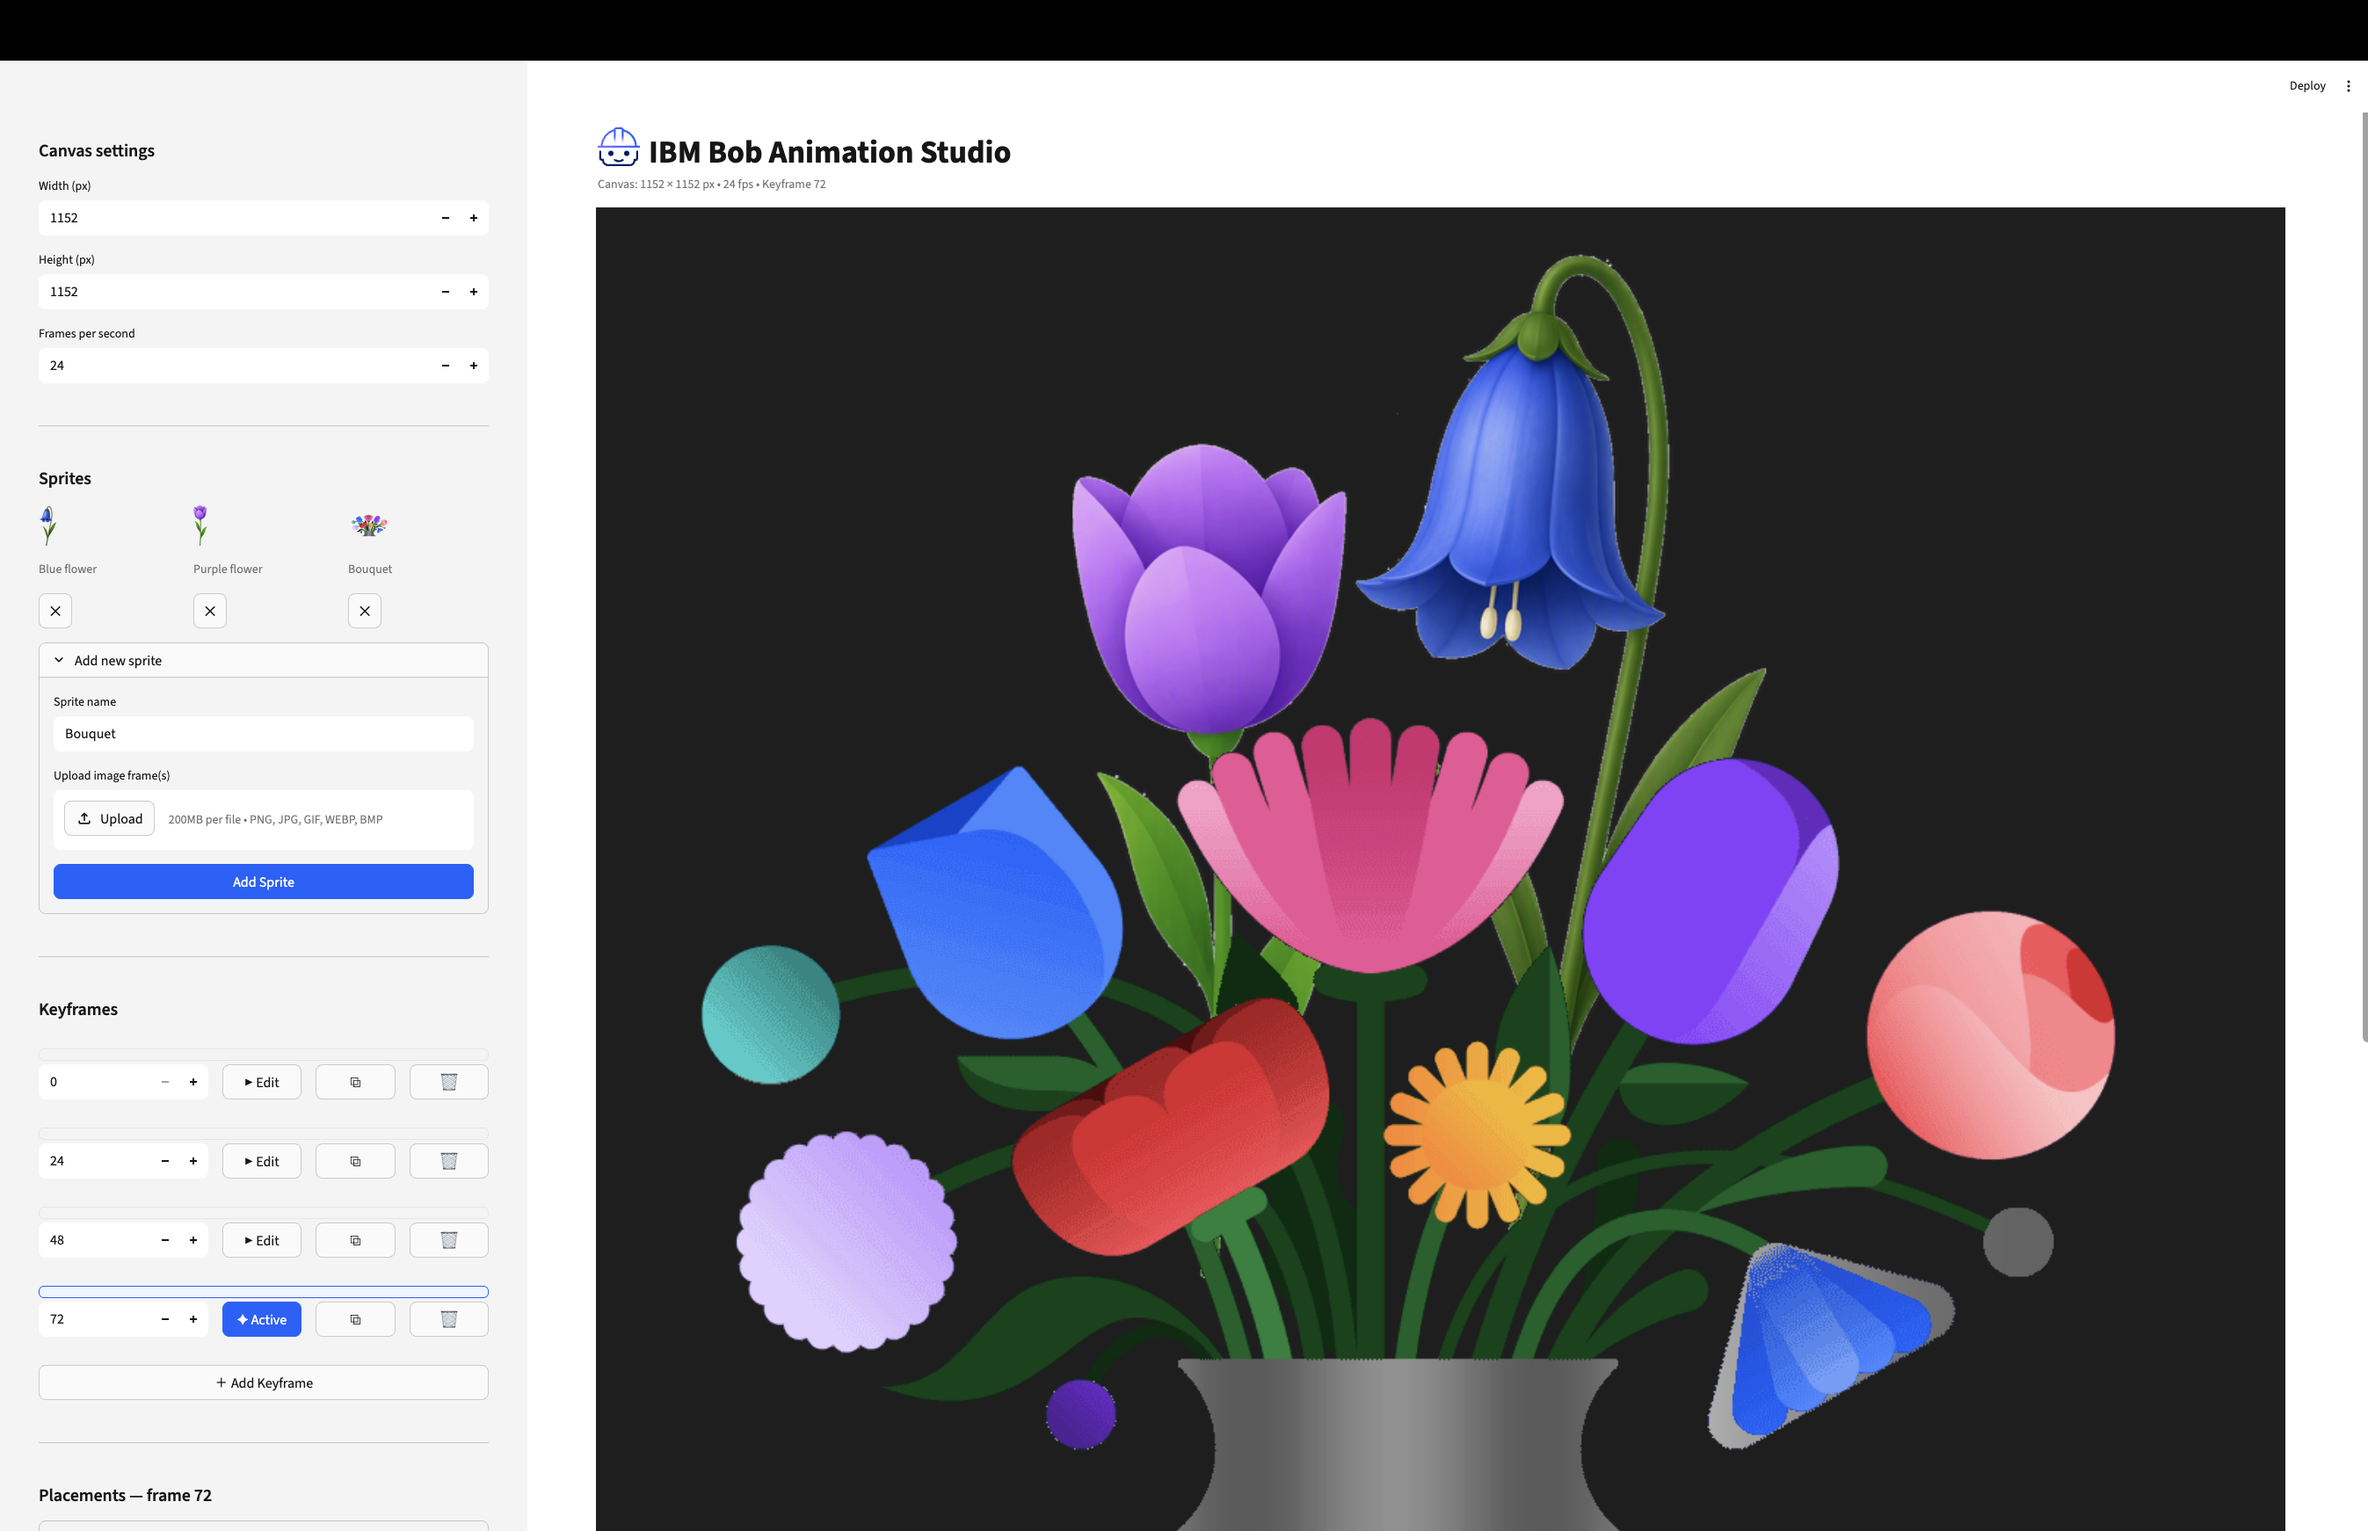
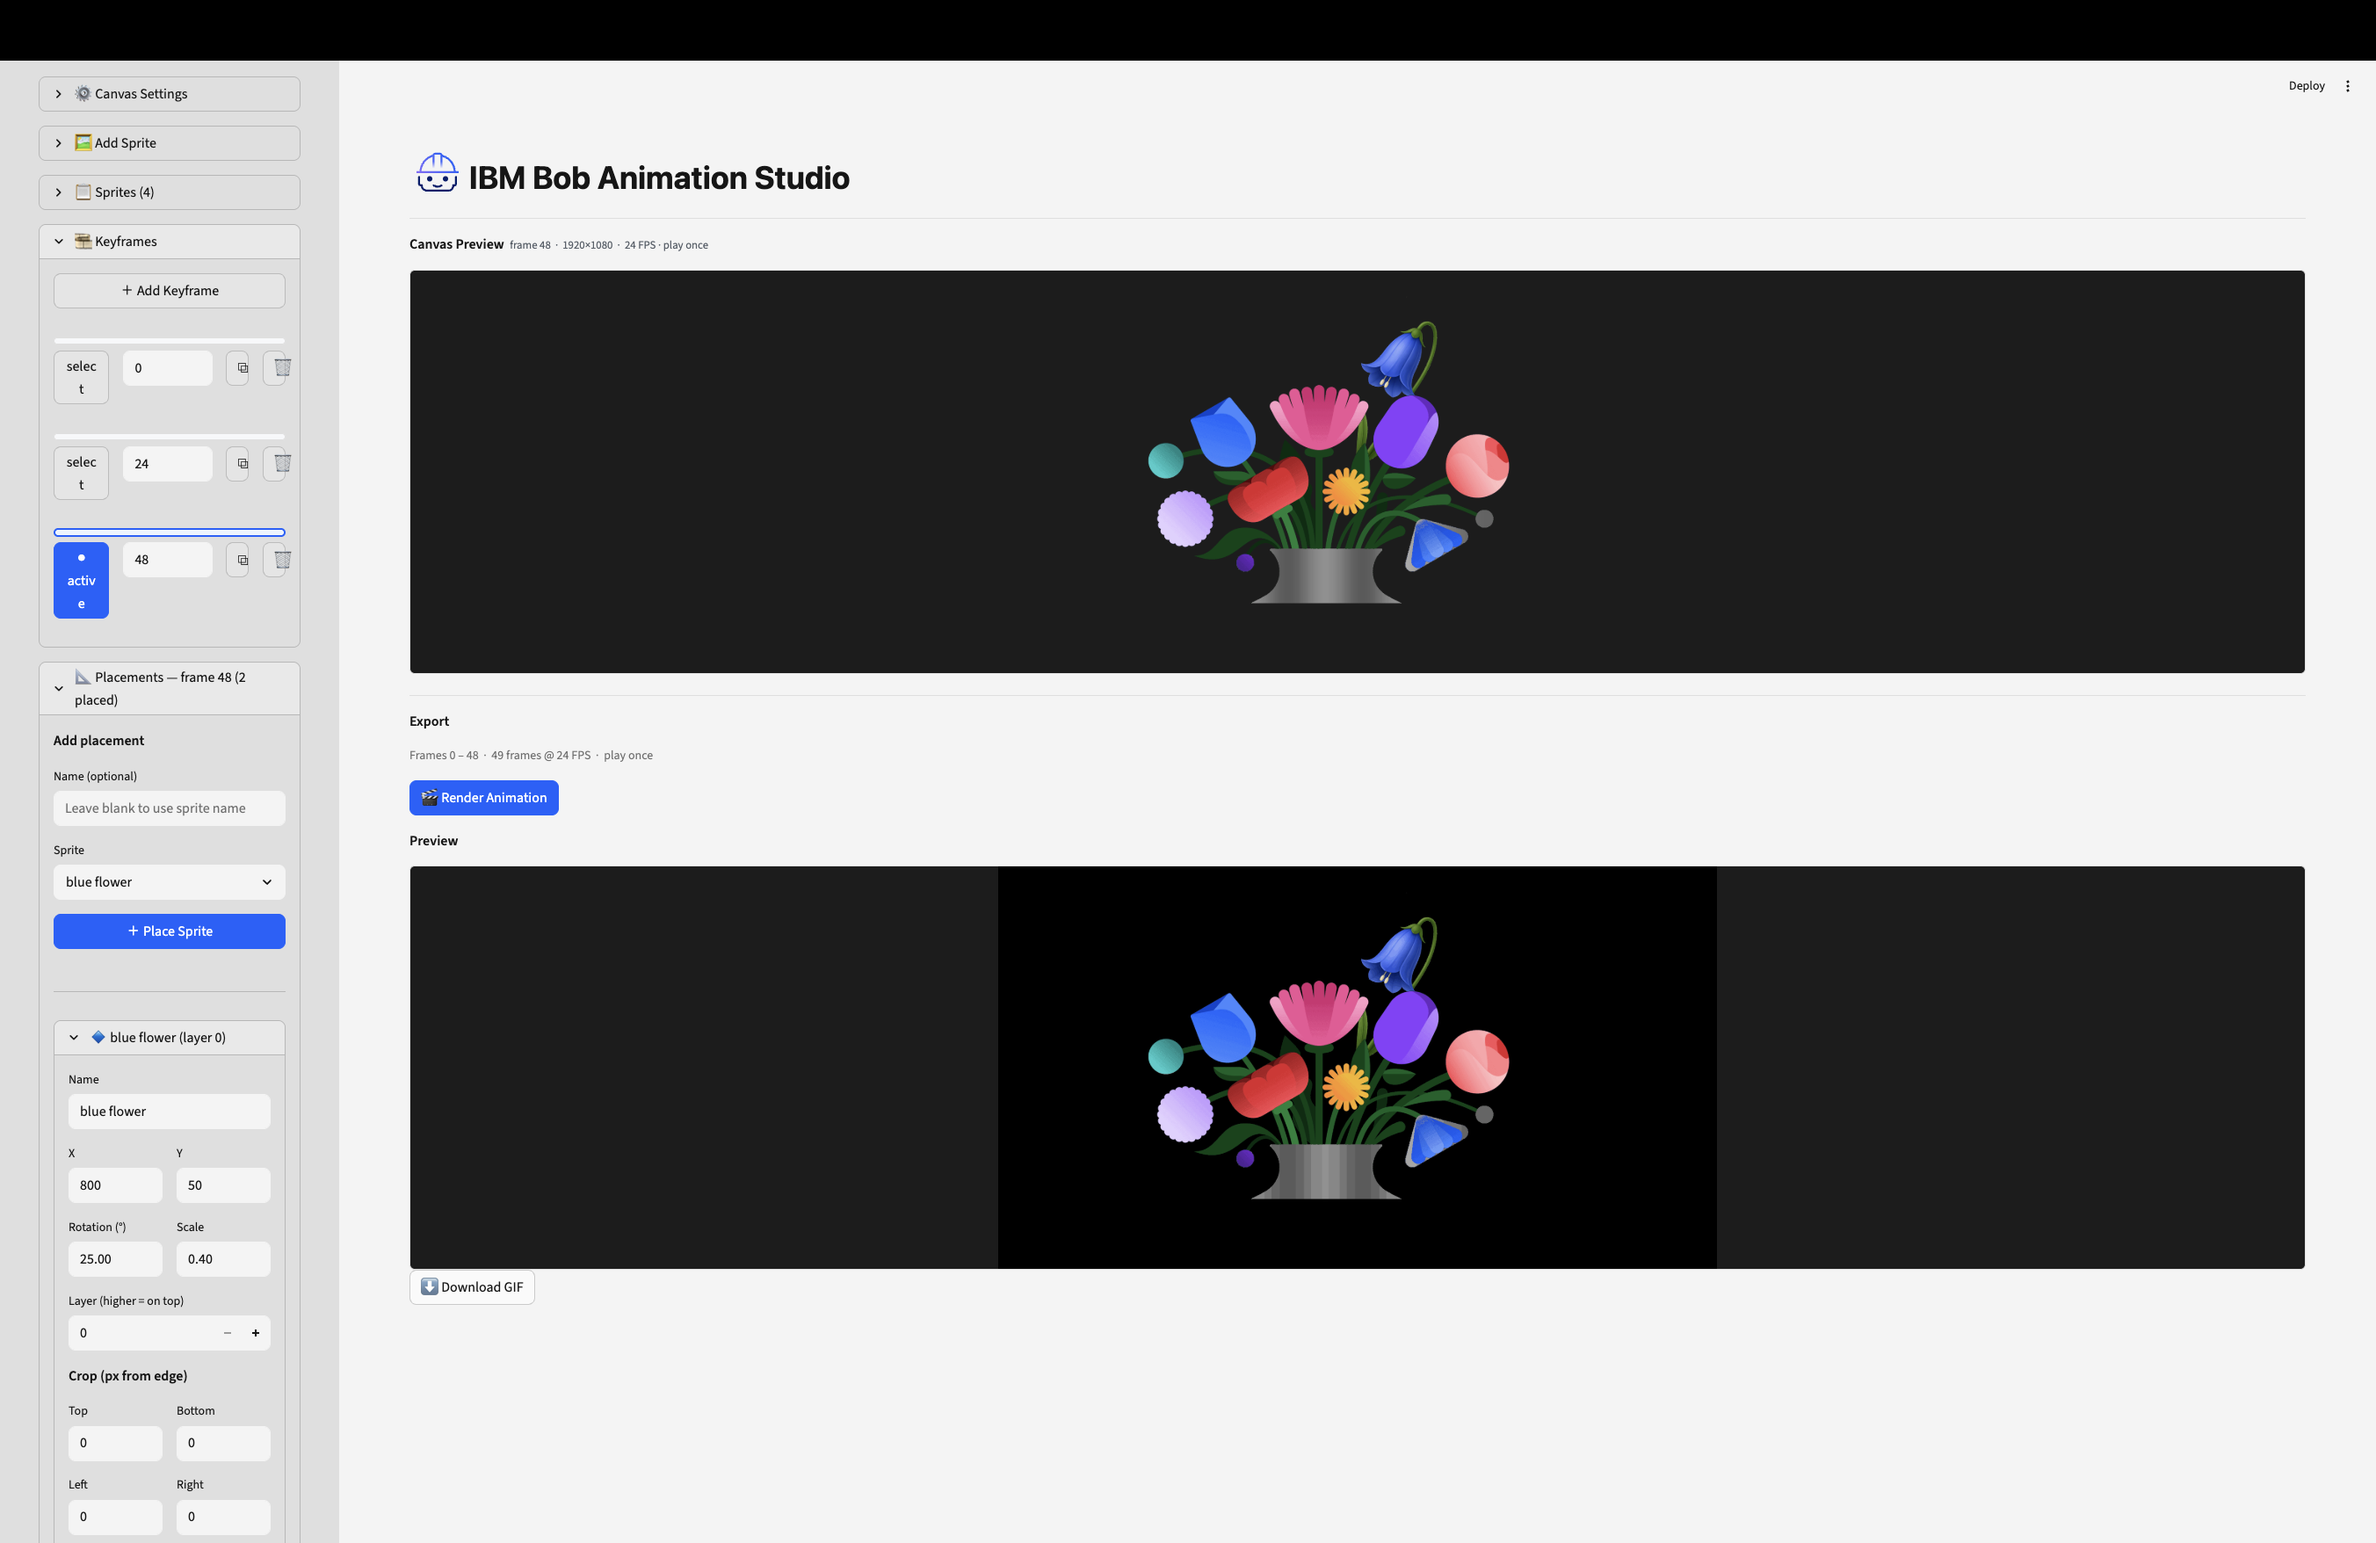
add final images

diff --git a/ibm-bob/ai-in-arts-graphics/ai-in-arts-graphics.md b/ibm-bob/ai-in-arts-graphics/ai-in-arts-graphics.md
@@ -282,6 +282,10 @@ The application can benefit from some preset scene effects, such as, blur and br
 
 1. Refresh the browser, and test the new feature.
 
+The following image shows the application with the scene effects features implemented:
+
+<img src="images/scene-effects.png" alt="Scene effects">
+
 [Back to the top](#top)
 
 ***
@@ -303,6 +307,10 @@ By default, the animation will loop continuosly, but the animator may want to ha
 1. To confirm permission to complete the tasks, click **Approve once** when prompted by Bob, and follow the prompts.
 
 1. Refresh the browser, and test the new feature.
+
+The following image shows the application with the looping option implemented:
+
+<img src="images/loop.png" alt="Looping option">
 
 [Back to the top](#top)
 
@@ -332,6 +340,14 @@ Once the animator has selected all of the options, the application needs a butto
 1. To confirm permission to complete the tasks, click **Approve once** when prompted by Bob, and follow the prompts.
 
 1. Refresh the browser, and test the new feature.
+
+   The following image shows the application with the keyframes and placement features implemented:
+
+   <img src="images/final-app.png" alt="Final application">
+
+1. After you render the animation, you can preview it in the application. Then download the animation. The following image shows an animation created using a similar application built by IBM Bob:
+
+   <img src="images/bouquet-animation.gif" alt="Bouquet animation">
 
 1. When you are done, press `CTRL+C` in the terminal window to stop the application.
 
